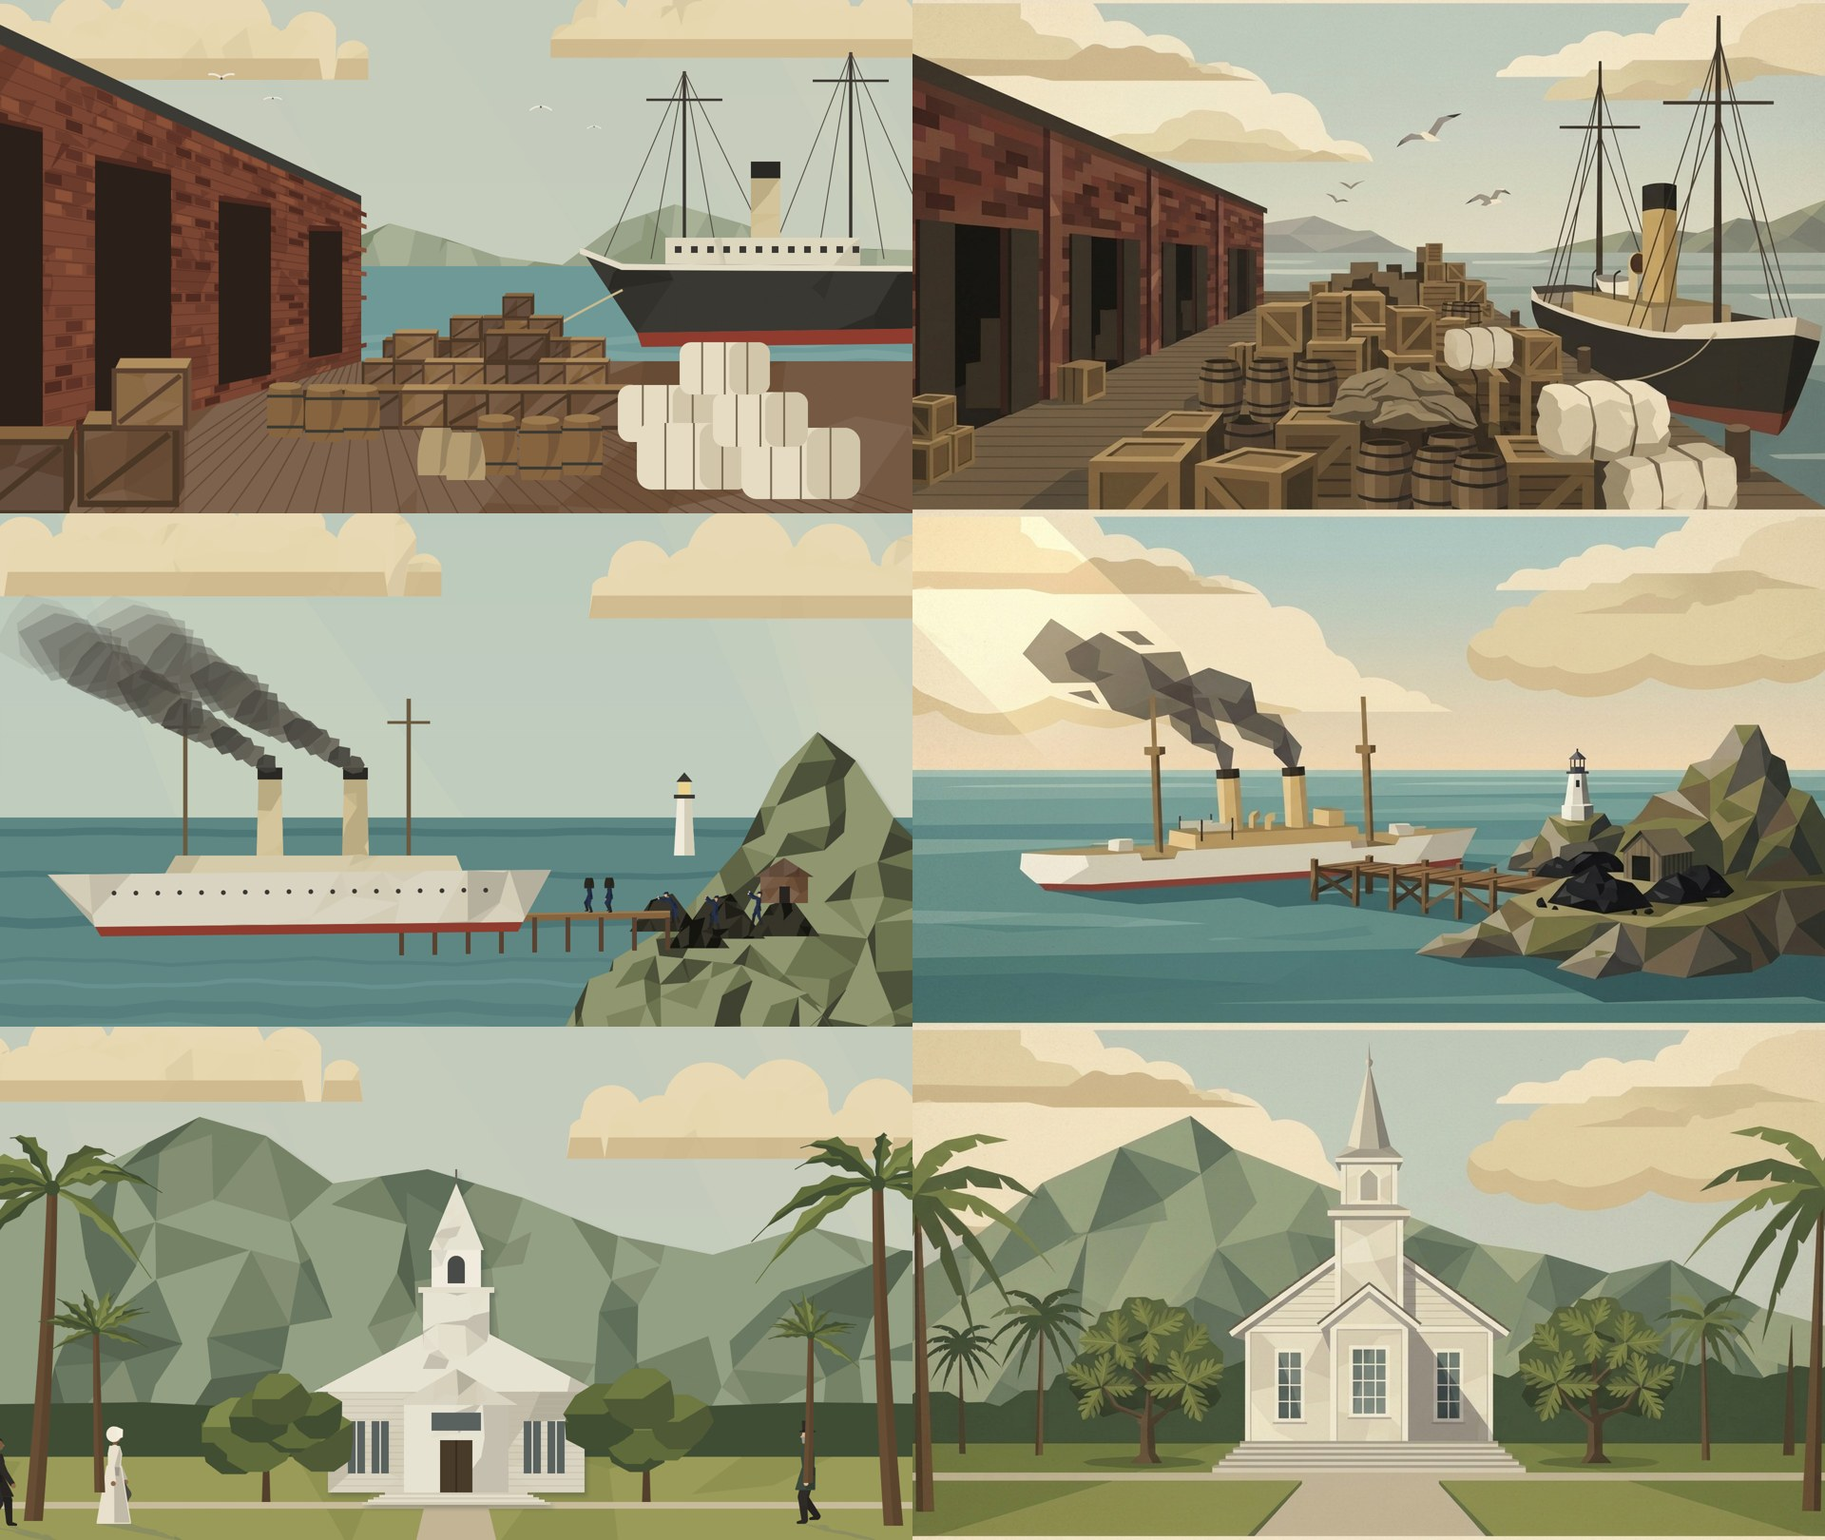
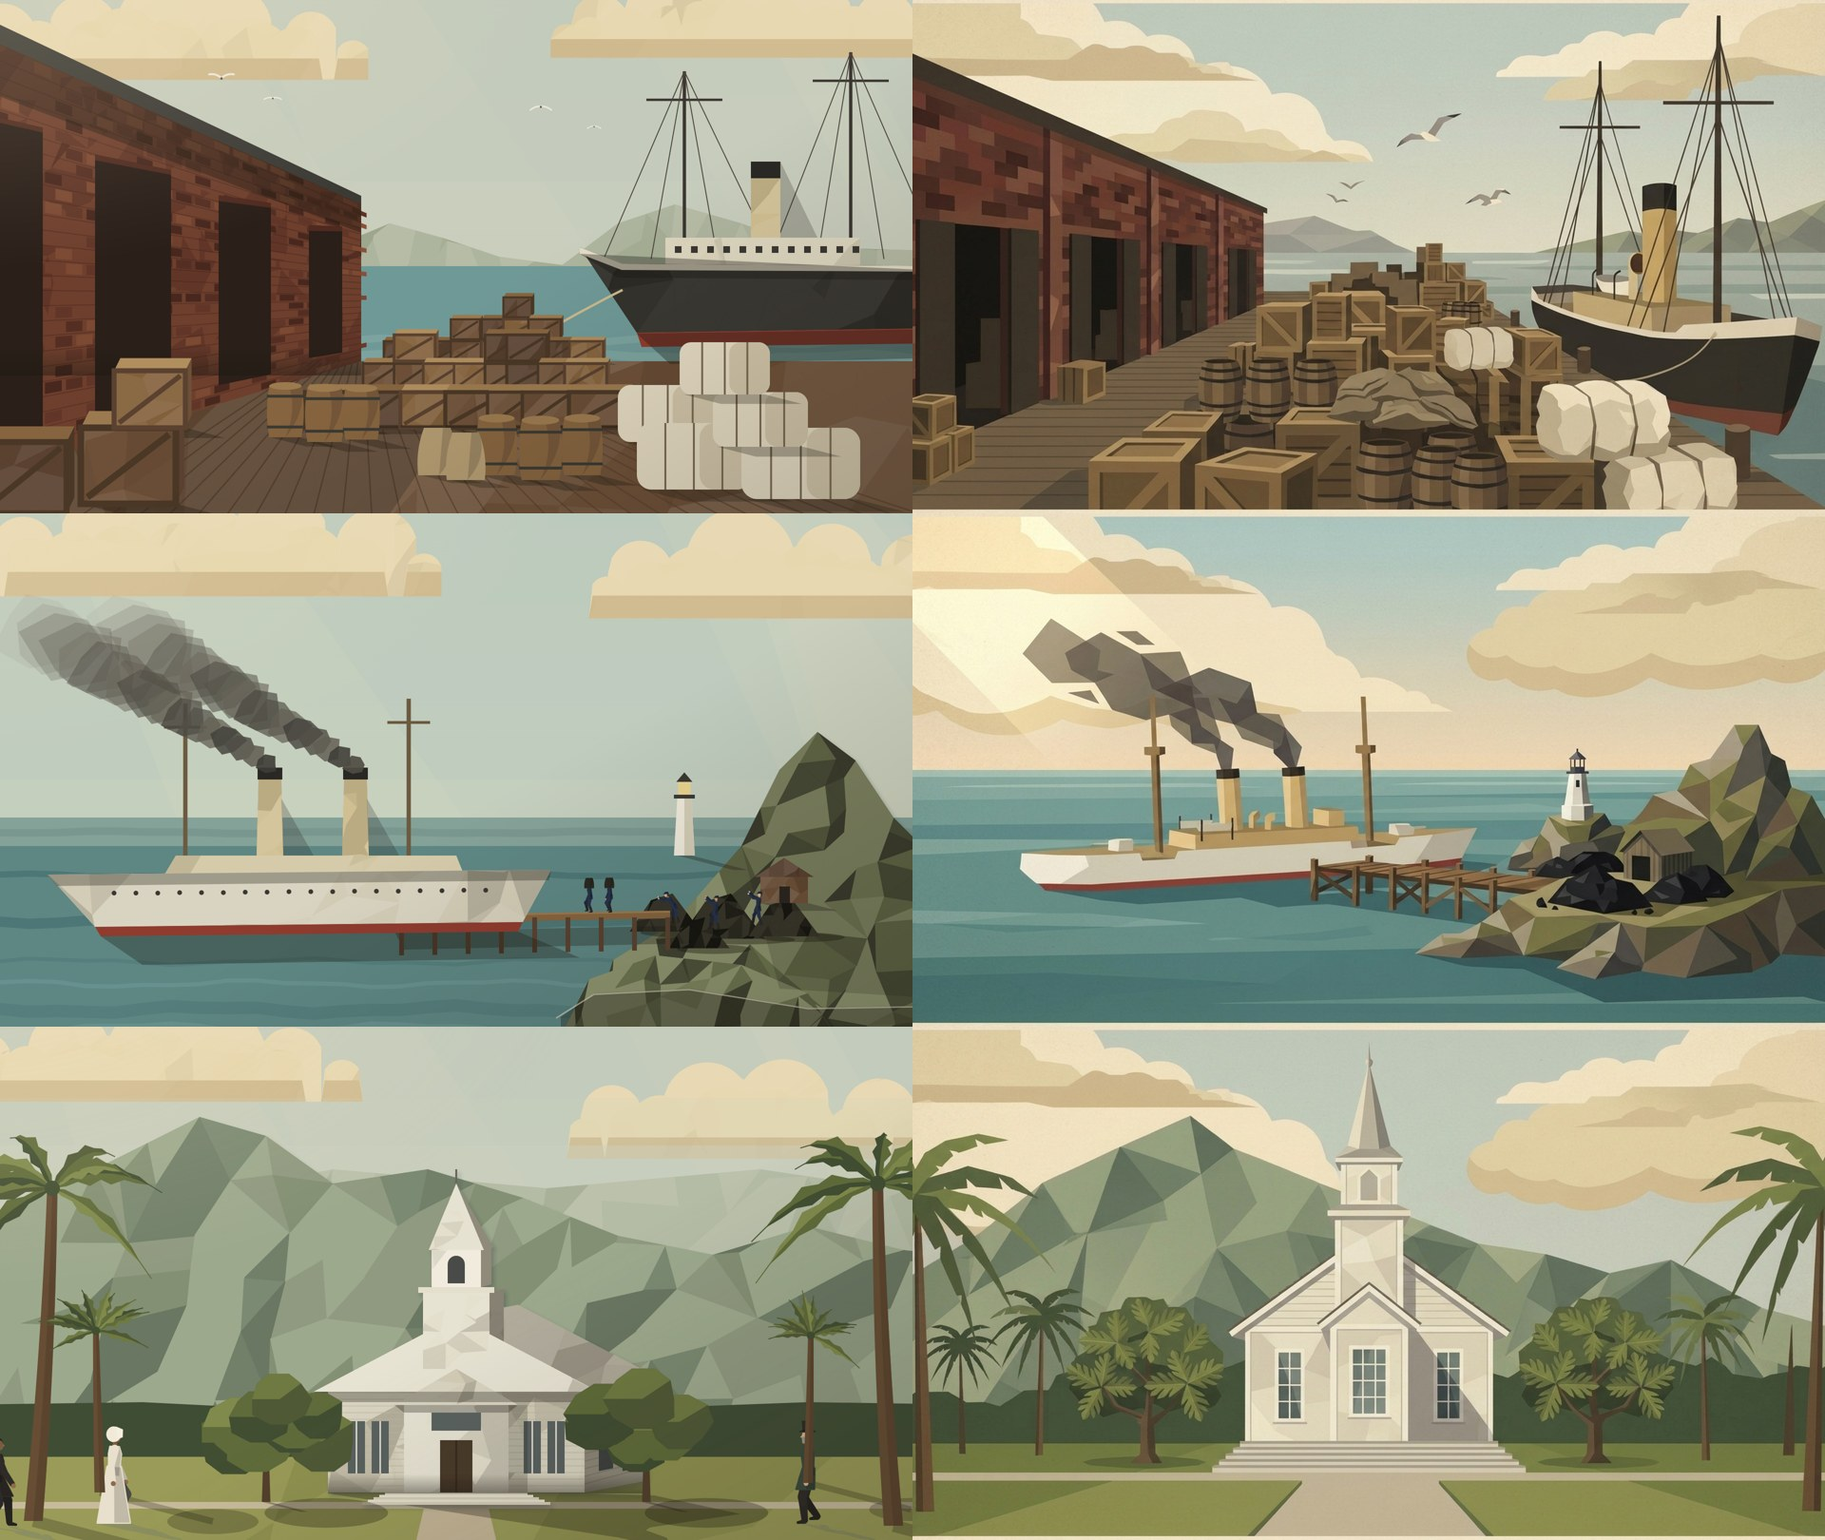
World kit: depth pass (cast shadows from one sun, contact shadows, side faces, haze, light wash)
Claude-Session: https://claude.ai/code/session_017aRbDpLNGtaraWqxSrmG2S

diff --git a/projects/American_Imperialism/ep1/tools/world.py b/projects/American_Imperialism/ep1/tools/world.py
@@ -83,6 +83,46 @@ def drift_group(gid, svg):
     return f'<g id="{gid}">{svg}</g>'
 
 
+# ---------------------------------------------------------------- depth: one sun at the upper left, so every shadow falls
+# to the lower right; contact shadows where things meet the ground; haze over distance; a light-and-shade wash
+SUN = (0.7, 0.18)            # a point h px above the ground throws its shadow h*0.7 right and h*0.18 down
+SH = '#1b1810'
+
+
+def proj_shadow(pts, base, op=0.3, k=SUN, col=SH):
+    """the shadow on flat ground (at y = base) of an upright outline"""
+    q = [(x + (base - y) * k[0], base + (base - y) * k[1]) for x, y in pts]
+    return f'<polygon points="{P2(q)}" fill="{col}" opacity="{op}"/>'
+
+
+def box_shadow(x0, x1, top, base, op=0.3, k=SUN, col=SH):
+    dx, dy = (base - top) * k[0], (base - top) * k[1]
+    return f'<polygon points="{P2([(x0, base), (x1, base), (x1 + dx, base + dy), (x0 + dx, base + dy)])}" fill="{col}" opacity="{op}"/>'
+
+
+def blob_shadow(x, y, rx, ry, op=0.28, col=SH):
+    return f'<ellipse cx="{x:.1f}" cy="{y:.1f}" rx="{rx:.1f}" ry="{ry:.1f}" fill="{col}" opacity="{op}"/>'
+
+
+def ao(x0, x1, base, h=36, op=0.4, gid='ao'):
+    """a soft darkening just above where something meets the ground"""
+    return (f'<linearGradient id="{gid}" x1="0" y1="0" x2="0" y2="1"><stop offset="0" stop-color="{SH}" stop-opacity="0"/>'
+            f'<stop offset="1" stop-color="{SH}" stop-opacity="{op}"/></linearGradient><rect x="{x0}" y="{base - h}" width="{x1 - x0}" height="{h}" fill="url(#{gid})"/>')
+
+
+def haze(x0, y0, x1, y1, col=SKY_B, op=0.35):
+    return f'<rect x="{x0}" y="{y0}" width="{x1 - x0}" height="{y1 - y0}" fill="{col}" opacity="{op}"/>'
+
+
+def light_wash(prefix, warm='#f6e7c4', dark=SH):
+    """sunlight pooling from the upper left and shade gathering at the lower right, over the whole scene"""
+    return (f'<radialGradient id="{prefix}lw" cx="0.12" cy="0.02" r="0.9"><stop offset="0" stop-color="{warm}" stop-opacity="0.28"/>'
+            f'<stop offset="0.55" stop-color="{warm}" stop-opacity="0"/></radialGradient>'
+            f'<linearGradient id="{prefix}dw" x1="0.2" y1="0.1" x2="1" y2="1"><stop offset="0.45" stop-color="{dark}" stop-opacity="0"/>'
+            f'<stop offset="1" stop-color="{dark}" stop-opacity="0.32"/></linearGradient>'
+            f'<rect x="-400" y="-300" width="2720" height="1680" fill="url(#{prefix}lw)"/><rect x="-400" y="-300" width="2720" height="1680" fill="url(#{prefix}dw)"/>')
+
+
 # ---------------------------------------------------------------- palms (each frond sways on its own)
 def palm_specs(palms):
     """palms: [(base x, base y, crown x, crown y, frond length, n fronds, seed, fan)] -> precomputed frond angles"""
@@ -325,6 +365,7 @@ def scene_docks(prefix, t0=0.0):
     o += fcloud(320, 120, 820, 150, n=10, seed_=320) + fcloud(1560, 80, 760, 130, n=9, seed_=1560)
     o += facets([(600, 600), (700, 520), (820, 470), (930, 500), (1050, 540), (1200, 560), (1200, 620), (600, 620)], FAR, hill_h(0.01, 40), cell=60, contrast=0.6)
     o += facets([(1180, 560), (1300, 470), (1420, 430), (1560, 470), (1700, 520), (2400, 540), (2400, 620), (1180, 620)], FAR, hill_h(0.01, 40), cell=60, contrast=0.6)
+    o += haze(500, 380, 2400, 640, SKY_B, 0.4)
     o += f'<g id="{prefix}sea"></g>'
     # the warehouse, in perspective, receding from the left edge
     wall = [(-300, 1080), (-300, -40), (760, 430), (760, 760)]
@@ -349,6 +390,8 @@ def scene_docks(prefix, t0=0.0):
             q = [wpt(u0, f0 + 0.004), wpt(u1, f0 + 0.004), wpt(u1, f1 - 0.006), wpt(u0, f1 - 0.006)]
             o += poly(q, BRICK[int(rb.integers(0, 5))])
     o += poly([(-300, -40), (760, 430), (760, 412), (-300, -90)], '#3b3a35')            # the roof edge
+    o += f'<polygon points="-300,-40 760,430 760,490 -300,90" fill="{SH}" opacity="0.38"/>'   # the eave's shadow on the wall
+    o += f'<polygon points="-300,-40 760,430 760,760 -300,1080" fill="{SH}" opacity="0.12"/>'  # the wall faces away from the sun
     for (xa, xb) in ((-120, 90), (200, 360), (460, 570), (650, 720)):                  # the open doors
         ya_t, ya_b = -40 + (xa + 300) / 1060 * 470 + 120 * (1 - (xa + 300) / 1060), 1080 - (xa + 300) / 1060 * 320
         yb_t, yb_b = -40 + (xb + 300) / 1060 * 470 + 120 * (1 - (xb + 300) / 1060), 1080 - (xb + 300) / 1060 * 320
@@ -359,6 +402,8 @@ def scene_docks(prefix, t0=0.0):
     for i in range(30):
         x = -300 + i * 110
         o += f'<line x1="{x}" y1="1400" x2="{760 + (x - 760) * 0.1:.0f}" y2="760" stroke="{WOOD[1]}" stroke-width="3" opacity="0.7"/>'
+    o += ao(-300, 760, 790, 60, 0.45, prefix + 'aow')
+    o += f'<polygon points="760,760 -300,1080 -300,1400 600,1400 1000,820" fill="{SH}" opacity="0.22"/>'   # the warehouse's shadow across the deck
     # the steamship, moored on the right: low black hull with a raised bow, buff funnel, two masts
     sx, dy = 1250, 90
     for xm, ym in ((sx + 190, 150), (sx + 540, 110)):
@@ -375,6 +420,9 @@ def scene_docks(prefix, t0=0.0):
     o += fpoly(hull, '#2e2c26', spread=0.06, cell=90, contrast=1.1)
     o += poly([(sx + 90, 610 + dy), (sx + 760, 600 + dy), (sx + 754, 632 + dy), (sx + 100, 640 + dy)], '#8f3b2e')
     o += poly([(sx - 30, 430 + dy), (sx + 60, 465 + dy), (sx + 780, 470 + dy), (sx + 780, 482 + dy), (sx + 58, 478 + dy), (sx - 30, 444 + dy)], '#e2dbc6')
+    o += f'<polygon points="{sx + 90},{612 + dy} {sx + 760},{602 + dy} {sx + 860},{660 + dy} {sx + 160},{676 + dy}" fill="{SH}" opacity="0.35"/>'   # the hull's shadow on the water
+    o += f'<polygon points="{sx - 30},{444 + dy} {sx + 780},{482 + dy} {sx + 780},{500 + dy} {sx + 50},{494 + dy}" fill="{SH}" opacity="0.35"/>'   # under the rail
+    o += f'<polygon points="{sx + 392},{250 + dy} {sx + 392},{410 + dy} {sx + 470},{410 + dy}" fill="{SH}" opacity="0.22"/>'   # the funnel's shadow
     o += f'<path d="M{sx + 60},{520 + dy} Q{sx - 100},{600 + dy} {sx - 250},{700 + dy}" fill="none" stroke="#c9b98f" stroke-width="5"/>'
     # cargo: crates, barrels, bales, sacks; far ones small, near ones big
     r = np.random.default_rng(3)
@@ -384,15 +432,20 @@ def scene_docks(prefix, t0=0.0):
             stack = int(r.integers(1, 4 - row))
             for j in range(stack):
                 w = 150 * s * r.uniform(0.85, 1.15)
+                if j == 0:
+                    o += box_shadow(x, x + w, yb - 100 * s * stack, yb, 0.3)
                 o += crate(x, yb - j * 110 * s, w, 100 * s, int(r.integers(1, 4)), side=0.6)
+                if j == 0:
+                    o += f'<rect x="{x:.0f}" y="{yb - 8 * s:.0f}" width="{w:.0f}" height="{8 * s:.0f}" fill="{SH}" opacity="0.35"/>'
     for x, y, s in ((560, 920, 0.9), (640, 930, 0.95), (720, 925, 0.9), (1000, 1000, 1.0), (1090, 1010, 1.05), (1180, 1000, 1.0)):
-        o += barrel(x, y, 90 * s, 120 * s, 3)
+        o += box_shadow(x + 10 * s, x + 80 * s, y - 120 * s, y, 0.3) + barrel(x, y, 90 * s, 120 * s, 3)
     for x, y, w, h in ((1300, 930, 210, 120), (1340, 1030, 240, 140), (1560, 1050, 250, 150), (1500, 940, 200, 115), (1430, 830, 190, 110)):
-        o += bale(x, y, w, h)
+        o += box_shadow(x + 10, x + w - 10, y - h, y, 0.28) + bale(x, y, w, h)
     for x, y in ((880, 1000), (940, 1010)):
-        o += sack(x, y, 80, 100)
+        o += box_shadow(x + 8, x + 72, y - 90, y, 0.28) + sack(x, y, 80, 100)
+    o += box_shadow(170, 370, 900, 1060, 0.32) + box_shadow(240, 390, 780, 900, 0.32) + box_shadow(-40, 140, 930, 1080, 0.32)
     o += crate(170, 1060, 200, 160, 2, side=0.5) + crate(240, 900, 150, 120, 3, side=0.5) + crate(-40, 1080, 180, 150, 1, side=0.5)
-    o += f'<g id="{prefix}dyn"></g>'
+    o += f'<g id="{prefix}dyn"></g>' + light_wash(prefix)
     flock = [(400, 160, 22, 26, 0.0), (520, 210, 18, 18, 1.4), (1060, 230, 26, 22, 2.2), (1190, 270, 20, 14, 3.1)]
     sk = (('c3',))
 
@@ -406,21 +459,27 @@ def scene_coaling(prefix):
     """A U.S. cruiser at a coaling station on a rocky Pacific island (copied from Flow c6_coaling_station)."""
     o = sky('#a9c1bb', '#cfd3bf', prefix + 'sk')
     o += fcloud(420, 120, 900, 170, n=10, seed_=420) + fcloud(1640, 170, 720, 160, n=9, seed_=1640)
-    o += f'<g id="{prefix}sea"></g>'
+    o += f'<g id="{prefix}sea"></g>' + haze(-600, 560, 2520, 700, '#cfd3bf', 0.35)
     # the island
     isl = [(1240, 1100), (1290, 940), (1420, 860), (1560, 700), (1640, 540), (1720, 460), (1800, 520), (1880, 640), (2000, 760), (2300, 900), (2300, 1100)]
     o += F.seam(facets(isl, ROCK, ridge_h(0.012, 80, 0.1), cell=70, contrast=1.1))
     o += facets([(1180, 1100), (1240, 980), (1380, 930), (1560, 950), (1700, 1010), (1760, 1100)], ROCK, ridge_h(0.02, 40, 0.1), cell=55, contrast=1.0)
+    o += f'<polygon points="1180,1060 1250,1010 1450,1000 1700,1040 2300,1030 2300,1110 1180,1110" fill="{SH}" opacity="0.35"/>'   # where rock meets sea
+    o += f'<polyline points="1170,1062 1250,1012 1450,1002 1700,1042 2300,1032" fill="none" stroke="#e9e3cf" stroke-width="3" opacity="0.6"/>'
+    o += f'<polygon points="1720,460 1800,520 1880,640 2000,760 2300,900 2300,1040 1640,1000 1560,700 1640,540" fill="{SH}" opacity="0.18"/>'   # the island's shaded side
     # coal heaps, the shed and the lighthouse
     for cx, cy, w, h in ((1400, 870, 150, 70), (1520, 885, 180, 85), (1650, 880, 150, 70), (1470, 905, 130, 55)):
+        o += blob_shadow(cx + w * 0.25, cy + 12, w * 0.6, 10, 0.4)
         o += facets([(cx - w / 2, cy + 10), (cx - w * 0.2, cy - h * 0.8), (cx + w * 0.1, cy - h), (cx + w / 2, cy + 10)], COAL, ridge_h(0.05, 20, 0.1), cell=26, contrast=1.2)
     o += fpoly([(1600, 820), (1700, 820), (1700, 760), (1600, 760)], WOOD[2], cell=30) + fpoly([(1588, 765), (1650, 725), (1712, 765)], WOOD[1], cell=30)
     o += f'<rect x="1640" y="785" width="22" height="35" fill="#2a2420"/>'
     lx, ly = 1440, 720
+    o += box_shadow(1600, 1700, 730, 820, 0.3) + box_shadow(lx - 15, lx + 15, ly - 170, ly, 0.3)
     o += poly([(lx - 22, ly), (lx + 22, ly), (lx + 15, ly - 120), (lx - 15, ly - 120)], IVORY[3]) + poly([(lx, ly), (lx + 22, ly), (lx + 15, ly - 120), (lx, ly - 120)], IVORY[1])
     o += poly([(lx - 22, ly - 120), (lx + 22, ly - 120), (lx + 22, ly - 128), (lx - 22, ly - 128)], '#3a3832')
     o += f'<rect x="{lx - 13}" y="{ly - 155}" width="26" height="27" fill="#e9d38f"/><path d="M{lx - 17},{ly - 155} L{lx},{ly - 175} L{lx + 17},{ly - 155} Z" fill="#3a3832"/>'
-    # the pier on piles
+    # the pier on piles, and its shadow on the water
+    o += f'<polygon points="830,880 1420,868 1440,905 850,918" fill="{SH}" opacity="0.3"/>'
     o += poly([(820, 846), (1410, 836), (1410, 852), (820, 864)], WOOD[3])
     for x in range(840, 1410, 70):
         o += f'<rect x="{x}" y="850" width="10" height="{80 - (x - 840) * 0.02:.0f}" fill="{WOOD[1]}"/>'
@@ -436,9 +495,13 @@ def scene_coaling(prefix):
         o += poly([(fx + 2, 560), (fx + 54, 560), (fx + 54, 535), (fx + 2, 535)], '#2a2824')
     o += fpoly([(hx - 60, 760), (hx + 1000, 750), (hx + 940, 860), (hx + 40, 870)], IVORY[1], spread=0.14, cell=95, contrast=1.3)
     o += poly([(hx + 40, 870), (hx + 940, 860), (hx + 930, 880), (hx + 52, 890)], '#8f3b2e')
+    o += f'<polygon points="{hx + 52},{890} {hx + 930},{880} {hx + 1060},{935} {hx + 140},{950}" fill="{SH}" opacity="0.32"/>'   # the hull's shadow on the water
+    o += f'<polygon points="{hx - 60},{760} {hx + 1000},{750} {hx + 995},{772} {hx - 40},{784}" fill="{SH}" opacity="0.3"/>'   # under the deck edge
+    for fx in (hx + 380, hx + 560):
+        o += f'<polygon points="{fx + 56},{720} {fx + 52},{600} {fx + 120},{720}" fill="{SH}" opacity="0.22"/>'   # each funnel's shadow on the deckhouse
     for x in range(hx + 80, hx + 900, 46):
         o += f'<circle cx="{x}" cy="{800 - (x - hx) * 0.008:.0f}" r="5" fill="#3a3832"/>'
-    o += f'<g id="{prefix}dyn"></g>'
+    o += f'<g id="{prefix}dyn"></g>' + light_wash(prefix)
 
     def dyn(tq):
         s = (smoke(tq + 8, hx + 408, 530, rate=2.2, life=8.0, rise=24, wind=(-62, -12), size=52, cols=('#3f3d37', '#4f4c44', '#625e53'), seed_=1)
@@ -462,15 +525,30 @@ def scene_church(prefix, t_arrive=0.0):
     """A white mission church in Hawaiʻi, 1880s, Sunday morning (copied from Flow c7_mission_church)."""
     o = sky()
     o += fcloud(300, 110, 800, 150, n=10, seed_=300) + fcloud(1560, 230, 700, 150, n=9, seed_=1560)
+    o += facets([(-400, 900), (-400, 470), (300, 380), (700, 300), (1150, 340), (1600, 300), (2000, 360), (2400, 400), (2400, 900)], FAR, ridge_h(0.006, 70, 0.1), cell=100, contrast=0.8)
+    o += haze(-400, 250, 2400, 900, SKY_B, 0.45)
     o += F.seam(facets([(-400, 900), (-400, 520), (0, 400), (200, 300), (420, 190), (560, 230), (700, 330), (900, 300), (1100, 360), (1300, 440),
                         (1500, 480), (1700, 420), (1900, 470), (2400, 520), (2400, 900)], MTN, ridge_h(0.005, 110, 0.12, namp=30), cell=110, contrast=1.0))
+    o += haze(-400, 150, 2400, 900, SKY_B, 0.18)
     o += poly([(-400, 1000), (-400, 800), (300, 790), (700, 810), (1300, 805), (1700, 790), (2400, 800), (2400, 1000)], TREE[1])
     o += facets([(-500, 905), (2500, 905), (2500, 1400), (-500, 1400)], LAWN, hill_h(0.003, 90), cell=200, contrast=0.8, bias=0.05)
     o += poly([(-500, 1000), (2500, 1000), (2500, 1014), (-500, 1014)], '#c8bb9c')
     o += poly([(895, 1000), (1025, 1000), (1120, 1400), (800, 1400)], '#c3b495')
-    # the church: gabled meeting house, porch gable, tower and steeple
+    # the church: gabled meeting house, porch gable, tower and steeple, seen a little from the left so its right side shows
     cx = 960
+    o += proj_shadow([(cx + 270, 982), (cx + 400, 958), (cx + 430, 742), (cx + 130, 585), (cx + 98, 552), (cx + 80, 464), (cx, 330), (cx - 20, 470), (cx - 270, 982)], 982, 0.3)
     ch = []
+    ch.append(fpoly([(cx + 270, 980), (cx + 270, 760), (cx + 400, 735), (cx + 400, 955)], IVORY[0], spread=0.08, cell=60))
+    for k in range(13):
+        ch.append(f'<line x1="{cx + 270}" y1="{770 + k * 16}" x2="{cx + 400}" y2="{745 + k * 16 * 0.95:.0f}" stroke="#8f8a7a" stroke-width="2" opacity="0.5"/>')
+    for x0 in (cx + 300, cx + 350):
+        ch.append(poly([(x0, 935), (x0 + 30, 929), (x0 + 30, 815), (x0, 822)], '#4c5452'))
+    ch.append(f'<polygon points="{cx + 270},980 {cx + 270},760 {cx + 400},735 {cx + 400},955" fill="{SH}" opacity="0.32"/>')
+    ch.append(fpoly([(cx + 300, 768), (cx, 610), (cx + 130, 585), (cx + 432, 742)], '#a9a392', spread=0.1, cell=60))
+    ch.append(fpoly([(cx + 70, 720), (cx + 70, 560), (cx + 100, 550), (cx + 100, 712)], IVORY[0], spread=0.06, cell=30))
+    ch.append(f'<polygon points="{cx + 70},720 {cx + 70},560 {cx + 100},550 {cx + 100},712" fill="{SH}" opacity="0.35"/>')
+    ch.append(f'<polygon points="{cx + 52},548 {cx + 52},470 {cx + 74},464 {cx + 74},542" fill="#8f8a7a"/>')
+    ch.append(f'<polygon points="{cx},330 {cx + 58},470 {cx + 78},464" fill="#8f8a7a"/>')
     ch.append(fpoly([(cx - 270, 980), (cx + 270, 980), (cx + 270, 760), (cx - 270, 760)], IVORY[1], spread=0.15, cell=90, contrast=1.4))
     for y in range(770, 980, 14):
         ch.append(f'<line x1="{cx - 270}" y1="{y}" x2="{cx + 270}" y2="{y}" stroke="{IVORY[0]}" stroke-width="2" opacity="0.6"/>')
@@ -489,8 +567,12 @@ def scene_church(prefix, t_arrive=0.0):
     ch.append(poly([(cx - 52, 850), (cx + 52, 850), (cx + 52, 812), (cx - 52, 812)], '#5a6260'))
     for k in range(5):
         ch.append(f'<rect x="{cx - 150 - k * 12}" y="{980 + k * 5}" width="{300 + k * 24}" height="6" fill="{IVORY[2] if k % 2 else IVORY[1]}"/>')
+    ch.append(f'<polygon points="{cx - 300},768 {cx + 300},768 {cx + 270},790 {cx - 270},790" fill="{SH}" opacity="0.3"/>')   # under the eaves
+    ch.append(f'<polygon points="{cx - 130},796 {cx + 130},796 {cx + 110},812 {cx - 110},812" fill="{SH}" opacity="0.3"/>')
+    ch.append(f'<polygon points="{cx + 110},980 {cx + 110},796 {cx + 150},796 {cx + 150},980" fill="{SH}" opacity="0.2"/>')   # the porch's shadow on the front
+    ch.append(ao(cx - 270, cx + 400, 982, 40, 0.4, prefix + 'aoc'))
     o += F.seam(''.join(ch))
-    o += f'<g id="{prefix}dyn"></g>'
+    o += f'<g id="{prefix}dyn"></g>' + light_wash(prefix)
     PSP = palm_specs([(70, 1040, 110, 340, 260, 9, 11, False), (210, 980, 205, 640, 120, 12, 12, True), (1700, 960, 1705, 650, 110, 12, 13, True),
                       (1880, 1050, 1840, 330, 270, 9, 14, False)])
     TSP = tree_specs([(560, 1000, 230, 260, 21), (1360, 1000, 230, 260, 22)])
@@ -504,7 +586,13 @@ def scene_church(prefix, t_arrive=0.0):
              (2000, 1046, 200, -1, 0.2, 6.2), (2200, 1050, 195, -1, 0.7, 7.0), (2420, 1044, 185, -1, 1.1, 7.6)]
 
     def dyn(tq):
-        s = trees(tq, TSP)
+        s = ''.join(blob_shadow(x + h * 0.55, base + h * 0.1, w * 0.5, w * 0.12, 0.3) + box_shadow(x - 8, x + 8, base - h * 0.5, base, 0.3)
+                    for (x, base, h, w, sd), _ in TSP)
+        for (bx, by, cx_, cy_, L, n, sd, fan), _ in PSP:
+            hh = by - cy_
+            s += f'<line x1="{bx}" y1="{by}" x2="{bx + hh * SUN[0]:.0f}" y2="{by + hh * SUN[1]:.0f}" stroke="{SH}" stroke-width="{hh * 0.03 + 4:.0f}" opacity="0.25"/>'
+            s += blob_shadow(bx + hh * SUN[0], by + hh * SUN[1], L * 0.8, L * 0.22, 0.25)
+        s += trees(tq, TSP)
         for i, (x0, y, h, f, d, walk) in enumerate(sched):
             svg, J, x = walker(tq, x0, y, h, facing=f, t0=t_arrive + d, t1=t_arrive + d + walk, phase=0.2 * i, **LOOKS[i])
             s += svg
